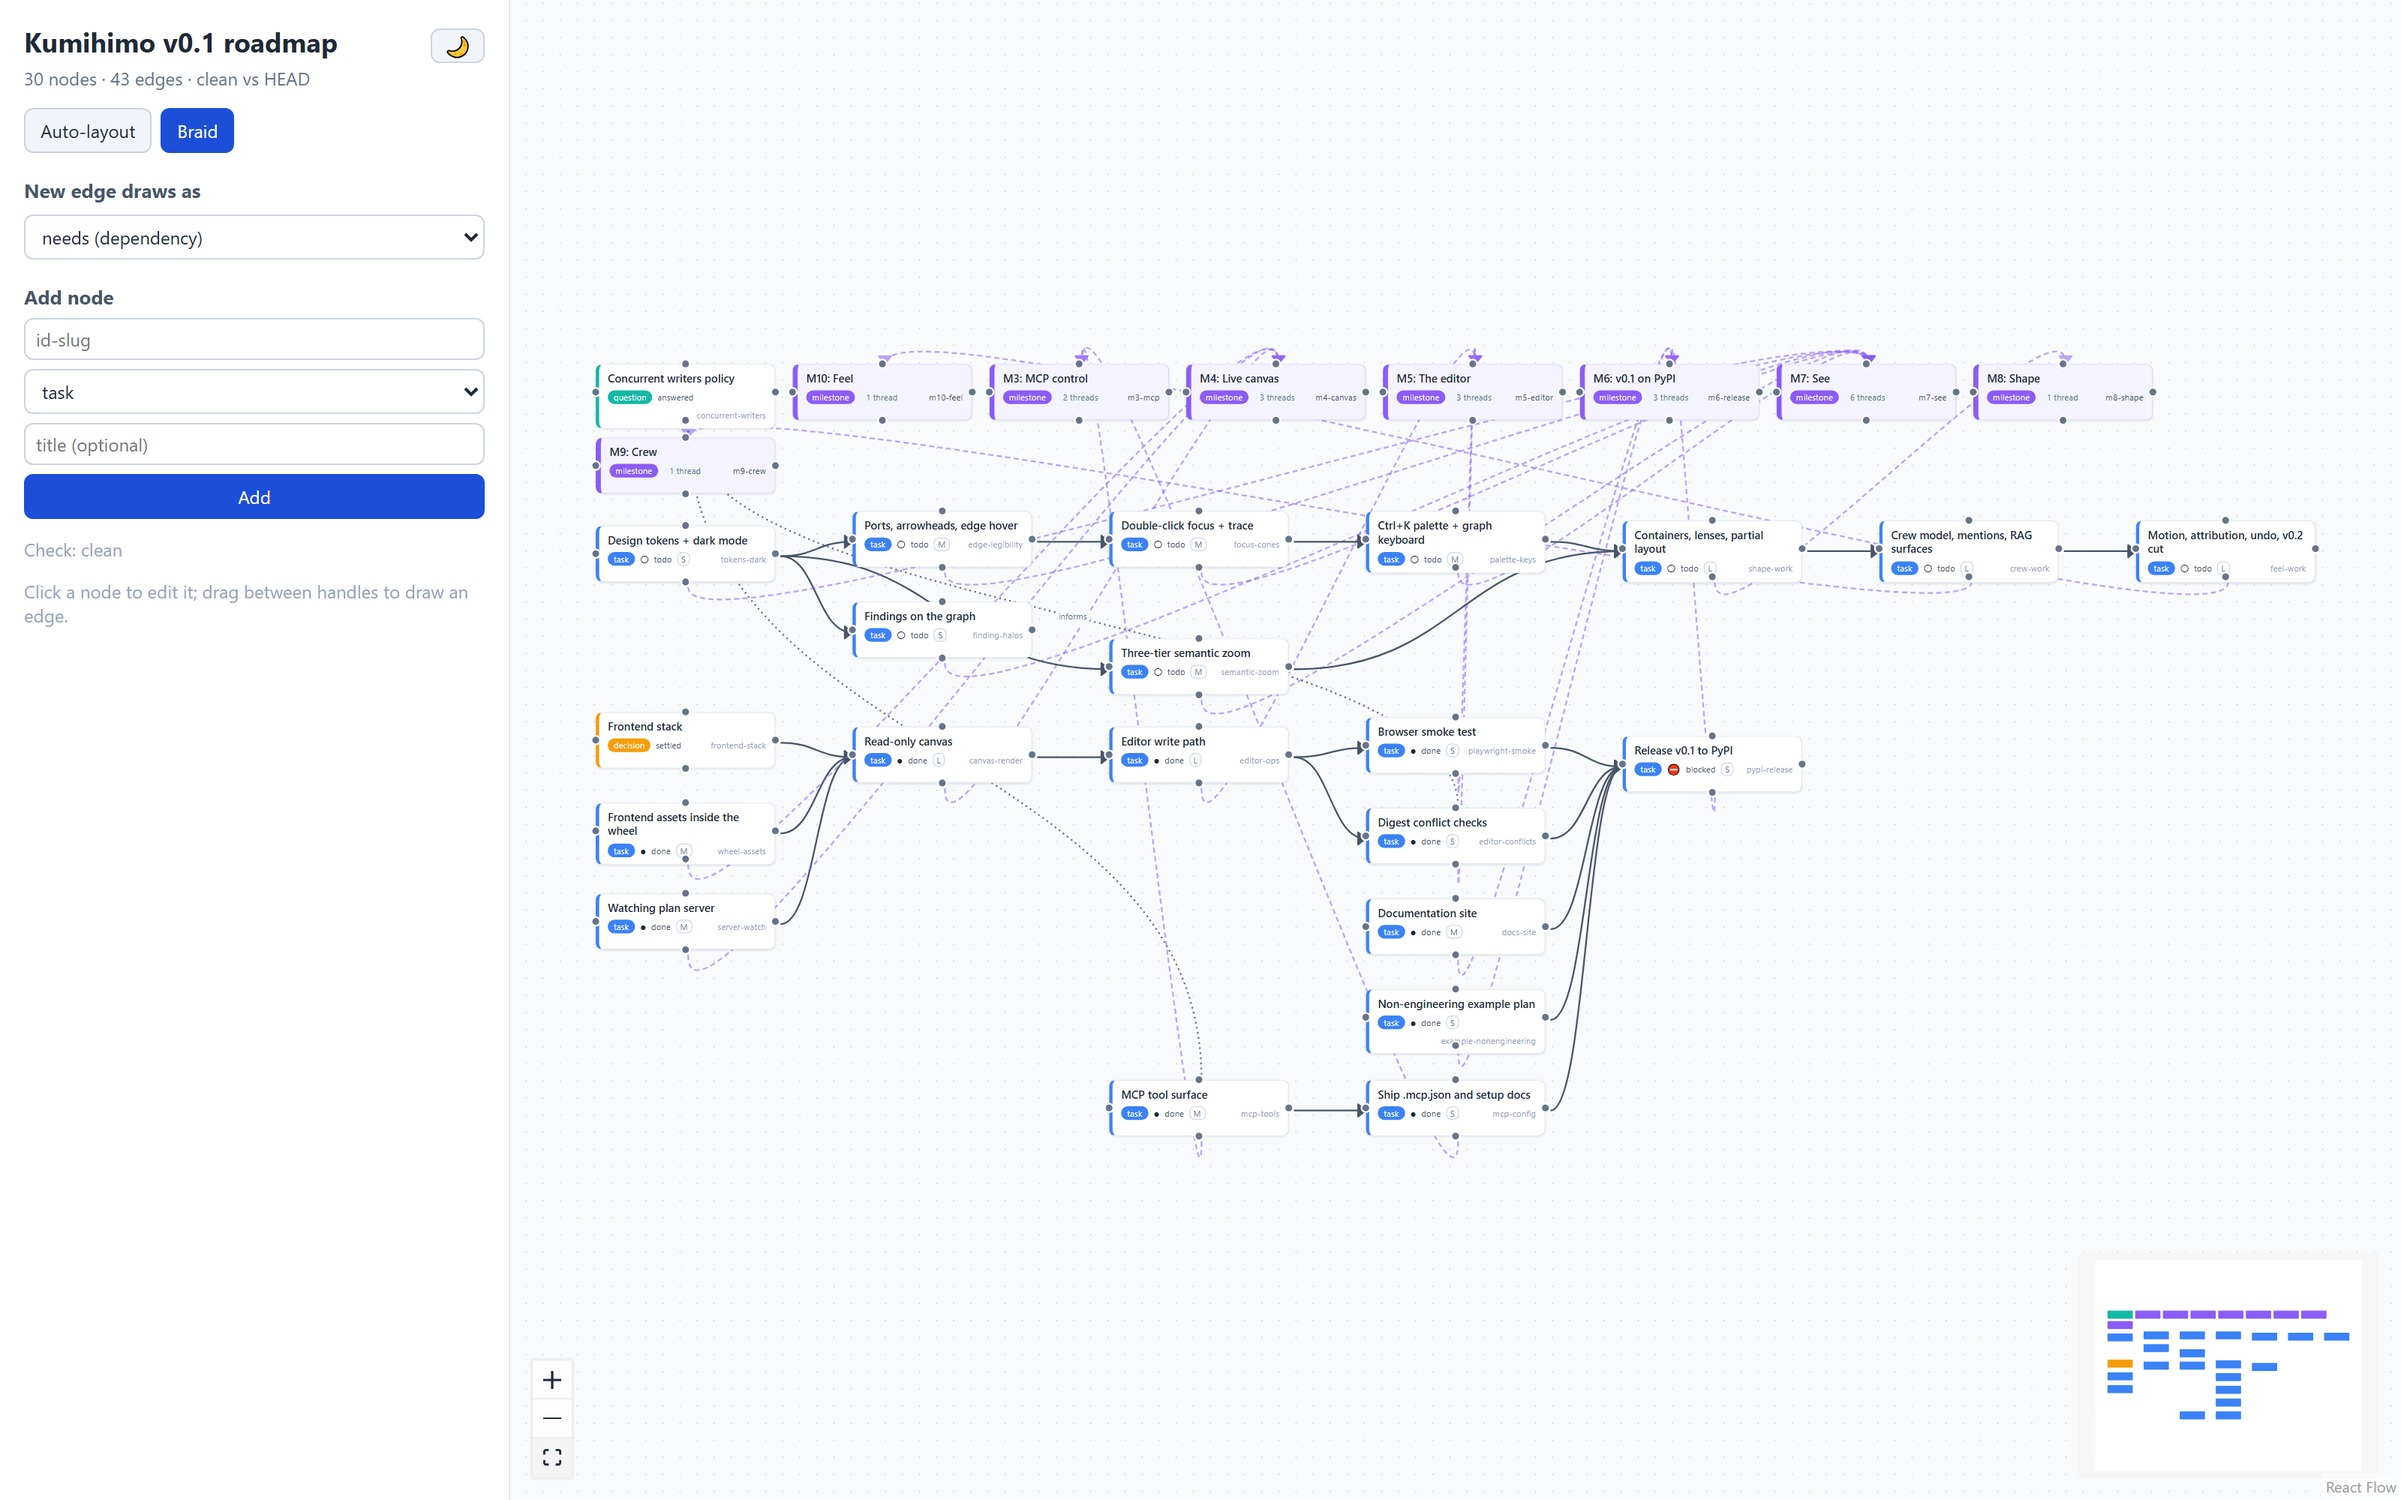
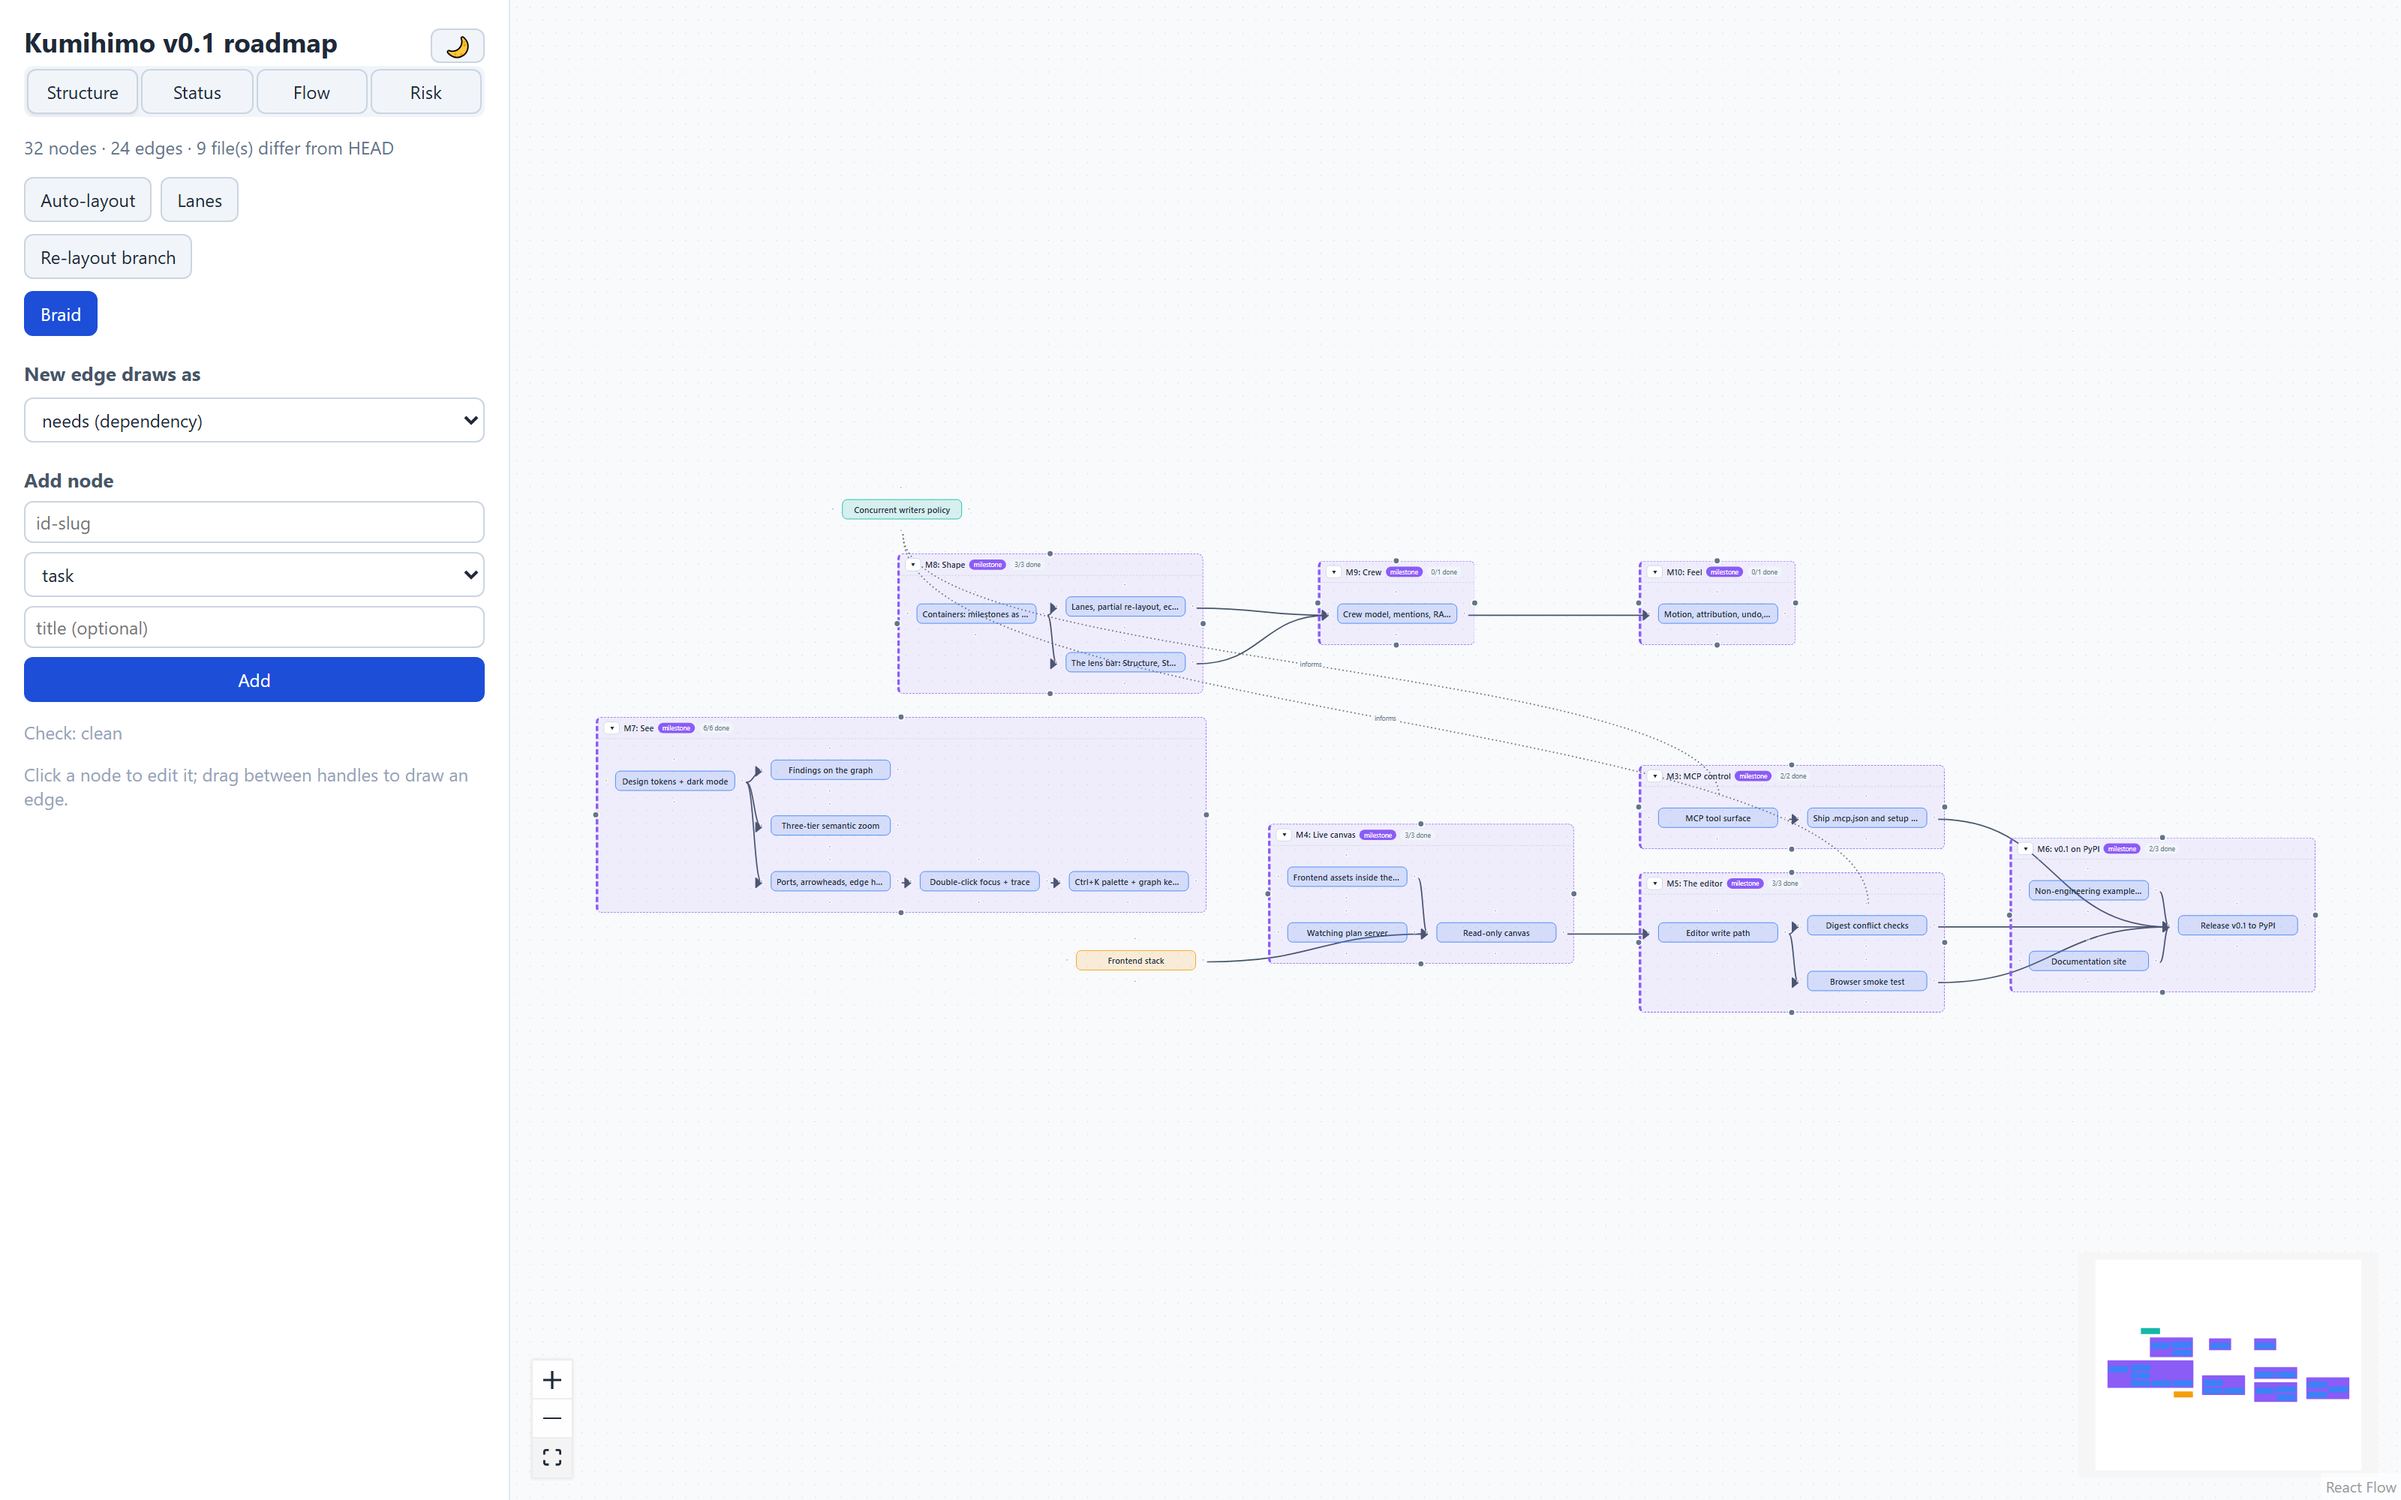
M8 close: demo journaled, statuses dogfooded, docs gate, lens screenshot, retro

diff --git a/tools/screenshots.py b/tools/screenshots.py
@@ -8,7 +8,7 @@
 @tags        screenshots, docs-assets, playwright
 @related     docs/index.md and README.md (where the images land),
              tests/test_editor_smoke.py (same server-spawning approach)
-@design      PLAN.md §9 M6
+@design      PLAN.md §9 M6, PLAN2.md §6
 """
 
 from __future__ import annotations
@@ -107,6 +107,12 @@ def main() -> int:
             page.locator(".react-flow__controls-fitview").click()
             page.wait_for_timeout(400)
             page.screenshot(path=str(ASSETS / "canvas-roadmap.png"))
+            # The Status lens (key 2): ready frontier glowing, done dimmed —
+            # M8's face for the docs.
+            page.keyboard.press("2")
+            page.wait_for_timeout(500)
+            page.screenshot(path=str(ASSETS / "lens-status.png"))
+            page.keyboard.press("1")
 
         browser.close()
     for shot in sorted(ASSETS.glob("*.png")):

diff --git a/build/state/journal.md b/build/state/journal.md
@@ -780,3 +780,26 @@ flagged it. Reviewer-script hygiene goes to the M8 retro.
 
 **Gated by me:** ruff, mypy, 143 tests, lint, mkdocs strict — green.
 App.tsx 593/600; containers.ts 307; no exemptions.
+
+## M8 close + retro — 2026-08-24, through iteration 28
+
+**Demo, run for real on plans/roadmap in dark mode (actual outputs):** M4
+collapsed chip reads "M4: Live canvas | milestone | 3/3 done"; Status lens
+glow = ['crew-work'], exactly the server ready() set (after fixing a
+dogfood miss the demo itself exposed — M7's roadmap statuses were never
+set done at its close, so tokens-dark showed ready until corrected);
+blocked tint = ['pypi-release']; Flow critical nodes = [canvas-render,
+editor-conflicts, editor-ops, frontend-stack, pypi-release] end to end.
+Demo residue (a stray collapsed-state view.yaml) removed; the roadmap diff
+is exactly the nine status edits, made through kumihimo set.
+
+**Docs gate:** editor.md and shortcuts.md grew per-item all milestone;
+screenshots re-shot including a NEW lens-status.png wired into the docs
+and the screenshot tool; mkdocs strict green; no README command changes.
+
+**Retro folded:** reviewer-scripts-on-copies + mandatory tree-clean
+assertion; independent-oracle for disputed computed output; close
+checklist step 0 (roadmap statuses through the tool). Training log
+appended. loop.json: iteration=28, last_retro=28, guard cleared. M8
+complete 3/3 — pushing at milestone close per standing say-so. Next: M9
+crew, which needs grooming into queue items first.

diff --git a/.claude/skills/kumihimo-manage/SKILL.md b/.claude/skills/kumihimo-manage/SKILL.md
@@ -58,7 +58,10 @@ verified".
 
 ## Close a milestone
 
-In order: (1) milestone demo run and journaled; (2) **docs gate** — strict
+In order: (0) **roadmap statuses updated through the tool itself** — the
+milestone's plan nodes set done via `kumihimo set` (the M7 close missed
+this and ready() lied until M8's close caught it); (1) milestone demo run
+and journaled; (2) **docs gate** — strict
 docs build green, the milestone's named doc pages exist and describe what
 shipped, screenshots re-shot via `tools/screenshots.py` when any UI pixel
 changed, and any changed README command re-verified on a clean checkout;
@@ -141,3 +144,11 @@ is alive, and a gap in it is itself a finding for the next retro.
   paid one loop after adoption: K22's builder flags became queue items
   K23 (App.tsx split) and K24 (TS linter coverage) instead of lost
   remarks. Nothing pruned.
+- 2026-08-24 — retro at M8 close (iterations 24-28): iteration skill
+  gained reviewer-scripts-on-copies with a mandatory final tree-clean
+  assertion (the K27 critic contaminated the real roadmap; the builder
+  caught it) and the independent-oracle rule for disputed computed
+  output (Python graph.descendants settled the K26 risk-shadow dispute);
+  manage skill's close checklist gained step 0, roadmap statuses via the
+  tool (the M7 miss made ready() lie until caught). Acceptance-authority
+  paid again: the MCP ready rule beat the queue's own summary sentence.

diff --git a/.claude/skills/kumihimo-iteration/SKILL.md b/.claude/skills/kumihimo-iteration/SKILL.md
@@ -88,6 +88,16 @@ the orchestrator keeps the gates. Rules that made it work:
   composites offscreen. The Claude Browser pane cannot screenshot in this
   environment (hidden, no frames) — an agent told to use it will burn its
   budget discovering that; brief the tool explicitly.
+- **Reviewer scripts operate on COPIES, and every reviewer's last line
+  asserts the real tree unchanged.** The K27 critic's script pointed at the
+  real plans/roadmap and left collapse state behind; the builder caught the
+  contamination a round later. Put the copy rule AND the final
+  `git status --short` assertion in every reviewer brief.
+- **Disputed computed output gets an independent oracle, not a re-read.**
+  The K26 risk-shadow dispute (reviewer saw 1 node, builder claimed 5) was
+  settled by running the Python twin (core.graph.descendants) on the
+  reviewer's exact fixture — most canvas math has a server-side sibling;
+  use it.
 - **A written-down "accepted" visual tradeoff expires at the next critic
   pass.** The near-tier overlap was pre-accepted in a CSS comment and died
   the moment someone looked at real pixels. Comments don't outrank eyes.

diff --git a/CHANGELOG.md b/CHANGELOG.md
@@ -7,6 +7,15 @@ All notable changes to Kumihimo. Format follows
 ## [Unreleased]
 
 ### Added
+- M8, the canvas gets its shape: milestones render as real containers —
+  members nested inside, collapse to a chip carrying n/m done with edges
+  rerouted, layout by true elk hierarchy proven pairwise non-overlapping;
+  the lens bar (keys 1-4) with Status (ready frontier glowing, matching the
+  MCP ready rule exactly), Flow (critical path bold), and Risk (open
+  decisions and risks with their blast radius shaded); a depth-lanes
+  arrangement in collision-proof per-container bands; branch re-layout that
+  moves one container or cone and nothing else; and payload echoes that
+  glide instead of teleport (off under prefers-reduced-motion).
 - M7, the canvas learns to explain itself: design tokens with full dark
   mode; per-kind edge ports with readable arrowheads, hover tooltips that
   speak in titles, and an edge panel; double-click focus tinting a node's

diff --git a/plans/roadmap/nodes/containers-subflows.md b/plans/roadmap/nodes/containers-subflows.md
@@ -3,5 +3,6 @@ kind: task
 title: 'Containers: milestones as subflows'
 in: [m8-shape]
 effort: L
+status: done
 ---
 PLAN2 §2.3 lens 1 + risk 1. Milestones render as React Flow parent containers; members live inside; collapse persists in view.yaml (view-state); a collapsed milestone is a chip with n/m done and re-routed edges. Stored positions stay ABSOLUTE in the sidecar — parent-relative conversion is an RF-layer concern only. Spike-first: if subflows x elk can't stabilize, the documented fallback is containers without auto-layout-into-containers.

diff --git a/plans/roadmap/nodes/lens-bar.md b/plans/roadmap/nodes/lens-bar.md
@@ -4,5 +4,6 @@ title: 'The lens bar: Structure, Status, Flow, Risk'
 needs: [containers-subflows]
 in: [m8-shape]
 effort: M
+status: done
 ---
 PLAN2 §2.3. A lens switcher: Structure (containers, default), Status (color by effective status, done dimmed, ready-frontier glowing — the ready() computation drawn), Flow (critical path bold, slack faint), Risk (open decisions/questions/risks enlarged with descendant-cone shading). Lenses compose with focus/halos under documented precedence.

diff --git a/plans/roadmap/nodes/edge-legibility.md b/plans/roadmap/nodes/edge-legibility.md
@@ -6,5 +6,6 @@ in: [m7-see]
 effort: M
 acceptance:
   - Per-edge-kind ports (needs left/right, in top, links bottom); readable arrowheads; hover thickening + tooltip naming both ends and the relation; edge selection panel with jump buttons.
+status: done
 ---
 Per-edge-kind ports (needs left/right, in top, links bottom); readable arrowheads; hover thickening + tooltip naming both ends and the relation; edge selection panel with jump buttons.

diff --git a/docs/howto/editor.md b/docs/howto/editor.md
@@ -154,6 +154,9 @@ means cards never grow into their neighbors as you zoom in.
 
 ## Lenses
 
+![The Status lens: ready frontier glowing, done work dimmed](../assets/lens-status.png)
+
+
 A four-way switch at the top of the sidebar — **Structure** (the default,
 everything described above), **Status**, **Flow**, **Risk** — changes what
 the canvas emphasizes without changing what it contains. Click a tab, or

diff --git a/plans/roadmap/nodes/palette-keys.md b/plans/roadmap/nodes/palette-keys.md
@@ -6,5 +6,6 @@ in: [m7-see]
 effort: M
 acceptance:
   - Fuzzy search over id/title/body with select-and-center; command entries (add node, braid, lens later); arrow keys walk the graph (up=dependency, down=dependent).
+status: done
 ---
 Fuzzy search over id/title/body with select-and-center; command entries (add node, braid, lens later); arrow keys walk the graph (up=dependency, down=dependent).

diff --git a/plans/roadmap/nodes/focus-cones.md b/plans/roadmap/nodes/focus-cones.md
@@ -6,5 +6,6 @@ in: [m7-see]
 effort: M
 acceptance:
   - Double-click tints ancestor/descendant cones with distance fade and dims the rest to 15%; Esc restores; alt-click a second node lights every path between them.
+status: done
 ---
 Double-click tints ancestor/descendant cones with distance fade and dims the rest to 15%; Esc restores; alt-click a second node lights every path between them.

diff --git a/plans/roadmap/nodes/semantic-zoom.md b/plans/roadmap/nodes/semantic-zoom.md
@@ -6,5 +6,6 @@ in: [m7-see]
 effort: M
 acceptance:
   - 'Far: shapes+titles. Mid: upgraded card (status glyph, effort chip, member count). Near: body preview + acceptance summary. Finding halos are K21/finding-halos, not this item.'
+status: done
 ---
 Far: shapes+titles. Mid: upgraded card (status glyph, effort chip, member count, halo). Near: body preview, acceptance checkboxes, chips.
